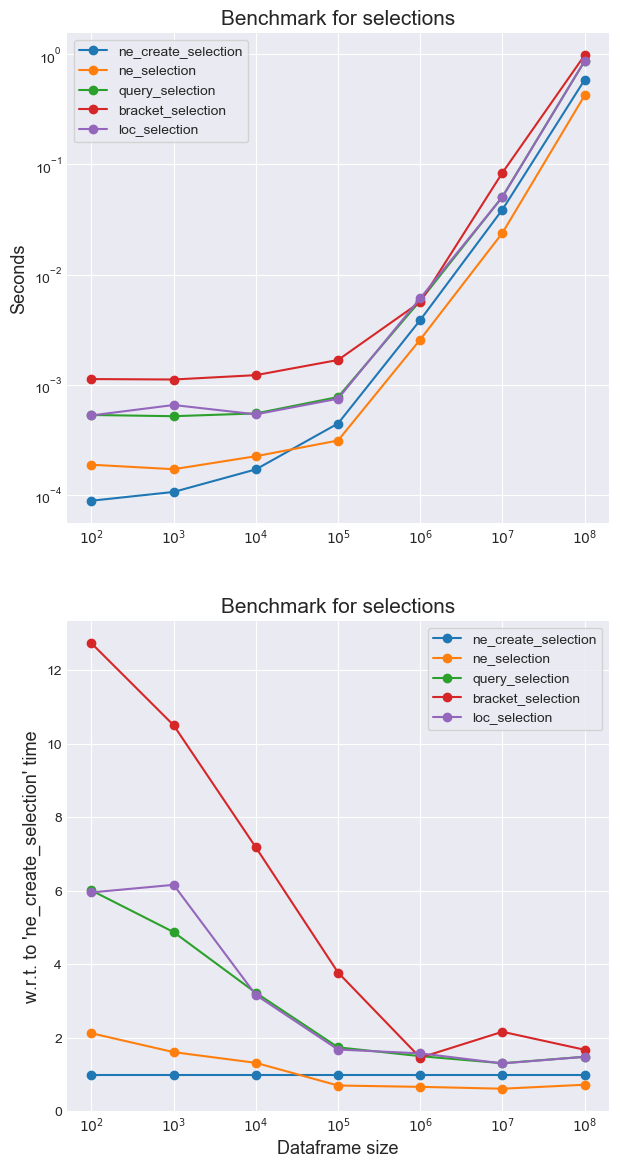
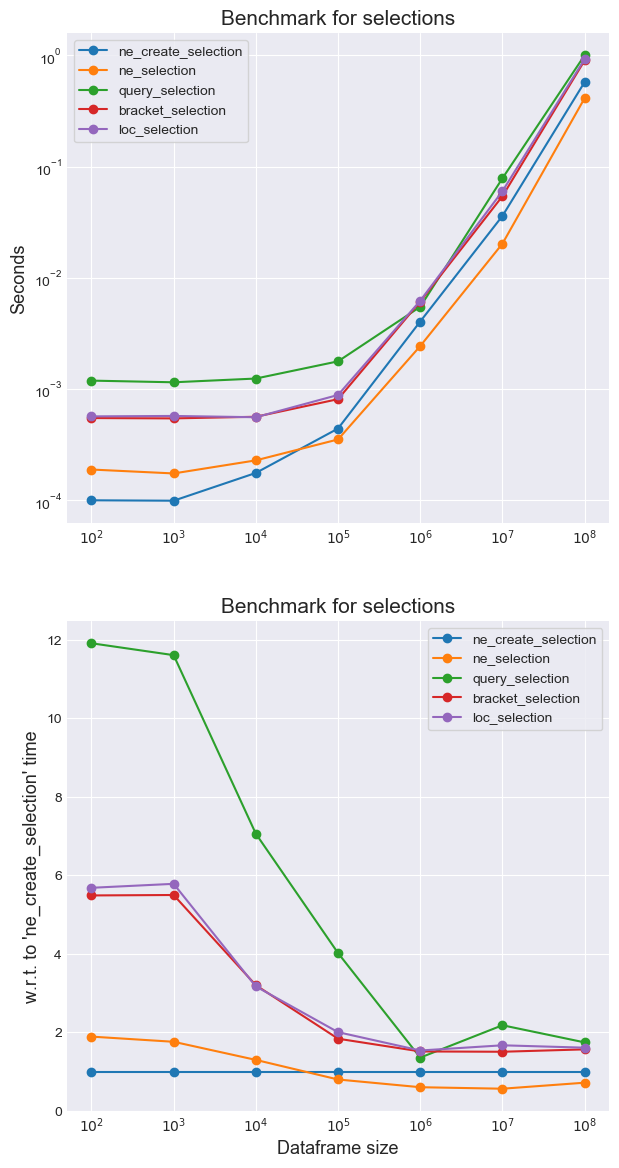
Fixed an issue in selection_benchmark results.

diff --git a/benchmark_selection.py b/benchmark_selection.py
@@ -3,11 +3,11 @@ import pandas as pd
 import numexpr as ne
 
 
-def query_selection(df):
+def bracket_selection(df):
     return df[(df["A"] > 0) & (df["A"] < 100)]
 
 
-def bracket_selection(df):
+def query_selection(df):
     return df.query("A > 0 and A < 100")
 
 

diff --git a/README.md b/README.md
@@ -7,26 +7,26 @@ Pandas is one of the most flexible and powerful tools available for data scienti
 This project is not intended to only show the obtained results but also to provide others with a simple method for benchmarking different operations and sharing their results.
 
 Below is a quick example of how to use the benchmarking class:
-
-    from Benchmarker import Benchmarker
-    import numpy as np
-        
-    def pandas_sum(df):
-        return df["A"].sum()
-        
-    def numpy_sum(df):
-        return np.sum(df["A"])
-        
-    params = {
-        "df_generator": 'pd.DataFrame(np.random.randint(1, df_size, (df_size, 2)), columns=list("AB"))',
-        "functions_to_evaluate": [pandas_sum, numpy_sum],
-        "title": "Pandas Sum vs Numpy Sum",
-    }
-    benchmark = Benchmarker(**params)
-    benchmark.benchmark_all()
-    benchmark.print_results()
-    benchmark.plot_results()
-
+```python
+from Benchmarker import Benchmarker
+import numpy as np
+    
+def pandas_sum(df):
+    return df["A"].sum()
+    
+def numpy_sum(df):
+    return np.sum(df["A"])
+    
+params = {
+    "df_generator": 'pd.DataFrame(np.random.randint(1, df_size, (df_size, 2)), columns=list("AB"))',
+    "functions_to_evaluate": [pandas_sum, numpy_sum],
+    "title": "Pandas Sum vs Numpy Sum",
+}
+benchmark = Benchmarker(**params)
+benchmark.benchmark_all()
+benchmark.print_results()
+benchmark.plot_results()
+```
 The first parameter passed to the class constructor is ***df_generator*** which is simply a function that generates a random dataframe. This function has to be define in terms of ***df_size*** so that different dataframes with increasing sizes are generated. The second parameter is the list of functions to be evaluated, and the last one is the title of the resulting plot. 
 
 Calling ***plot_results( )*** will show and save a plot like the one shown below containing two subplots:
@@ -46,15 +46,17 @@ You can clearly see that pandas sum is slightly faster than numpy sum, for dataf
 #### 1.1 Dropping duplicate rows:
 There are severals  methods for dropping duplicate rows in pandas, three of which are tested below:
 
-    def duplicated(df):
-        return df[~df["A"].duplicated(keep="first")].reset_index(drop=True)
-    
-    def drop_duplicates(df):
-        return df.drop_duplicates(subset="A", keep="first").reset_index(drop=True)
-    
-    def group_by_drop(df):
-        return df.groupby(df["A"], as_index=False, sort=False).first()
+```python
+def duplicated(df):
+    return df[~df["A"].duplicated(keep="first")].reset_index(drop=True)
 
+def drop_duplicates(df):
+    return df.drop_duplicates(subset="A", keep="first").reset_index(drop=True)
+
+def group_by_drop(df):
+    return df.groupby(df["A"], as_index=False, sort=False).first()
+
+```
 * ***duplicated* is the fastest; irrespective of size.**
 * **The *group_by* drop shows an interesting trend. It could be possible for it to be faster than duplicated for data frames larger than 100 million rows.**
 
@@ -63,13 +65,15 @@ There are severals  methods for dropping duplicate rows in pandas, three of whic
 #### 1.2 - Iterating over all rows:
 Tested functions:
 
-    def iterrows_function(df):  
-      for index, row in df.iterrows():  
-      pass  
-     
-    def itertuples_function(df: pd.DataFrame):  
-      for row in df.itertuples():  
-      pass
+```python
+def iterrows_function(df):  
+    for index, row in df.iterrows():  
+        pass  
+ 
+def itertuples_function(df):  
+    for row in df.itertuples():  
+        pass
+```
       
  - **itertuples is significantly faster than iterrows (up to 50 times faster)**
 ![](https://i.imgur.com/CjjCCoB.png)
@@ -79,37 +83,39 @@ Tested functions:
 #### 1.3 - Selecting rows:
 Tested functions:
 
-    def query_selection(df):
-        return df[(df["A"] > 0) & (df["A"] < 100)]
-    
-    def bracket_selection(df):
-        return df.query("A > 0 and A < 100")
-    
-    def loc_selection(df):
-        return df.loc[(df["A"] > 0) & (df["A"] < 100)]
-    
-    def ne_selection(df):
-        A = df["A"].values
-        return df[ne.evaluate("(A > 0) & (A < 100)")]
-    
-    def ne_create_selection(df):
-        A = df["A"].values
-        mask = ne.evaluate("(A > 0) & (A < 100)")
-        return pd.DataFrame(df.values[mask], df.index[mask], df.columns)
-    
+```python
+def bracket_selection(df):
+    return df[(df["A"] > 0) & (df["A"] < 100)]
+
+def query_selection(df):
+    return df.query("A > 0 and A < 100")
+
+def loc_selection(df):
+    return df.loc[(df["A"] > 0) & (df["A"] < 100)]
+
+def ne_selection(df):
+    A = df["A"].values
+    return df[ne.evaluate("(A > 0) & (A < 100)")]
+
+def ne_create_selection(df):
+    A = df["A"].values
+    mask = ne.evaluate("(A > 0) & (A < 100)")
+    return pd.DataFrame(df.values[mask], df.index[mask], df.columns)
+```
  * ***ne_create_selection* is the fastest method for dataframes smaller than 10000 rows, followed bt *ne_selection* for larger data frames.**
  * ***loc and query selections* are identical in performance.**
  * **Square bracket selection is the slowest method.**
-![](https://i.imgur.com/Vc2NKOY.png)
+![](https://i.imgur.com/iy2c44M.png)
 #### 1.4 - Creating a new column:
 Tested functions:
 
-    def regular(df):
-	    df["E"] = df["A"] * df["B"] + df["C"]
+```python
+def regular(df):
+    df["E"] = df["A"] * df["B"] + df["C"]
 
-	def eval_method(df):
-	    df.eval("E = A * B + C", inplace=True)
-
+def eval_method(df):
+    df.eval("E = A * B + C", inplace=True)
+```
  * **The regular method is faster than the eval method.**
 * **eval_methods shows and interesting erratic behavior that I couldn't explain; however, I repeated the test several times with different mathematical operations and still reproduced the same plot every time.**
 ![enter image description here](https://i.imgur.com/RWqPHXj.png)
@@ -121,11 +127,13 @@ This section tests the performance of functions that are found in both numpy and
 #### 2.1 - Summation performance:
 Tested functions:
    
-    def pandas_sum(df):
-        return df["A"].sum()
-    
-    def numpy_sum(df):
-        return np.sum(df["A"])
+```python
+def pandas_sum(df):
+    return df["A"].sum()
+
+def numpy_sum(df):
+    return np.sum(df["A"])
+```
       
  * **pandas sum is slightly faster than numpy sum, for dataframes below one million rows.**
    
@@ -136,11 +144,13 @@ Tested functions:
 #### 2.2 - Sort performance:
 Tested functions:
 
-    def pandas_sort(df):  
-      return df["A"].sort_values()  
-                  
-    def numpy_sort(df):  
-      return np.sort(df["A"])
+```python
+def pandas_sort(df):  
+  return df["A"].sort_values()  
+              
+def numpy_sort(df):  
+  return np.sort(df["A"])
+```
 
 * **numpy_sort is considerably faster than pandas, irrespective of size; although they both use quicksort as the default sorting algorithm.**
 
@@ -150,11 +160,14 @@ Tested functions:
 #### 2.3 - Unique performance:
 Tested functions:
 
-	def pandas_unique(df):
-	    return df["A"].unique()
+```python
+def pandas_unique(df):
+    return df["A"].unique()
 
-	def numpy_unique(df):
-	    return np.unique(df["A"])
+def numpy_unique(df):
+    return np.unique(df["A"])
+```
+
 * **For data frames over 100 rows pandas unique is faster than numpy.**
 * **It is worth noting that unlike pandas unique, numpy unique returns a sorted array, which explains the discrepancy in results**
 
@@ -163,22 +176,27 @@ Tested functions:
 #### 2.4 - Median performance:
 Tested functions:
 
-    def pandas_median(df):
-        return df["A"].median()
-    
-    def numpy_median(df):
-        return np.median(df["A"])
+```python
+def pandas_median(df):
+    return df["A"].median()
+
+def numpy_median(df):
+    return np.median(df["A"])
+```
 
 * **No significant statistical difference in performance.**
 ![](https://i.imgur.com/tFxos1W.png)
 #### 2.5 - Mean performance:
 Tested functions:
 
-    def pandas_mean(df):
-        return df["A"].mean()
-    
-    def numpy_mean(df):
-        return np.mean(df["A"])
+```python
+def pandas_mean(df):
+    return df["A"].mean()
+
+def numpy_mean(df):
+    return np.mean(df["A"])
+```
+        
  * **pandas mean is slightly faster than numpy mean, for dataframes below one million rows.**
 
 ![](https://i.imgur.com/AXzJ4Dx.png)
@@ -186,11 +204,13 @@ Tested functions:
 #### 2.6 - Product performance:
 Tested functions:
 
-    def pandas_prod(df):
-        return df["A"].prod()
-    
-    def numpy_prod(df):
-        return np.prod(df["A"])
+```python
+def pandas_prod(df):
+    return df["A"].prod()
+
+def numpy_prod(df):
+    return np.prod(df["A"])
+```
         
  * **pandas product is slightly faster than numpy product, for dataframes below one million rows.**
 
@@ -212,7 +232,7 @@ The benchmarker will warn you if the results returned by the evaluated functions
 
 
 ## Future work:
-####   -Using median instead of mean as it is less prone to noise. 
+####  -Using median instead of mean as it is less prone to noise. 
 ####  -Benchmarking memory consumption.
 
 
